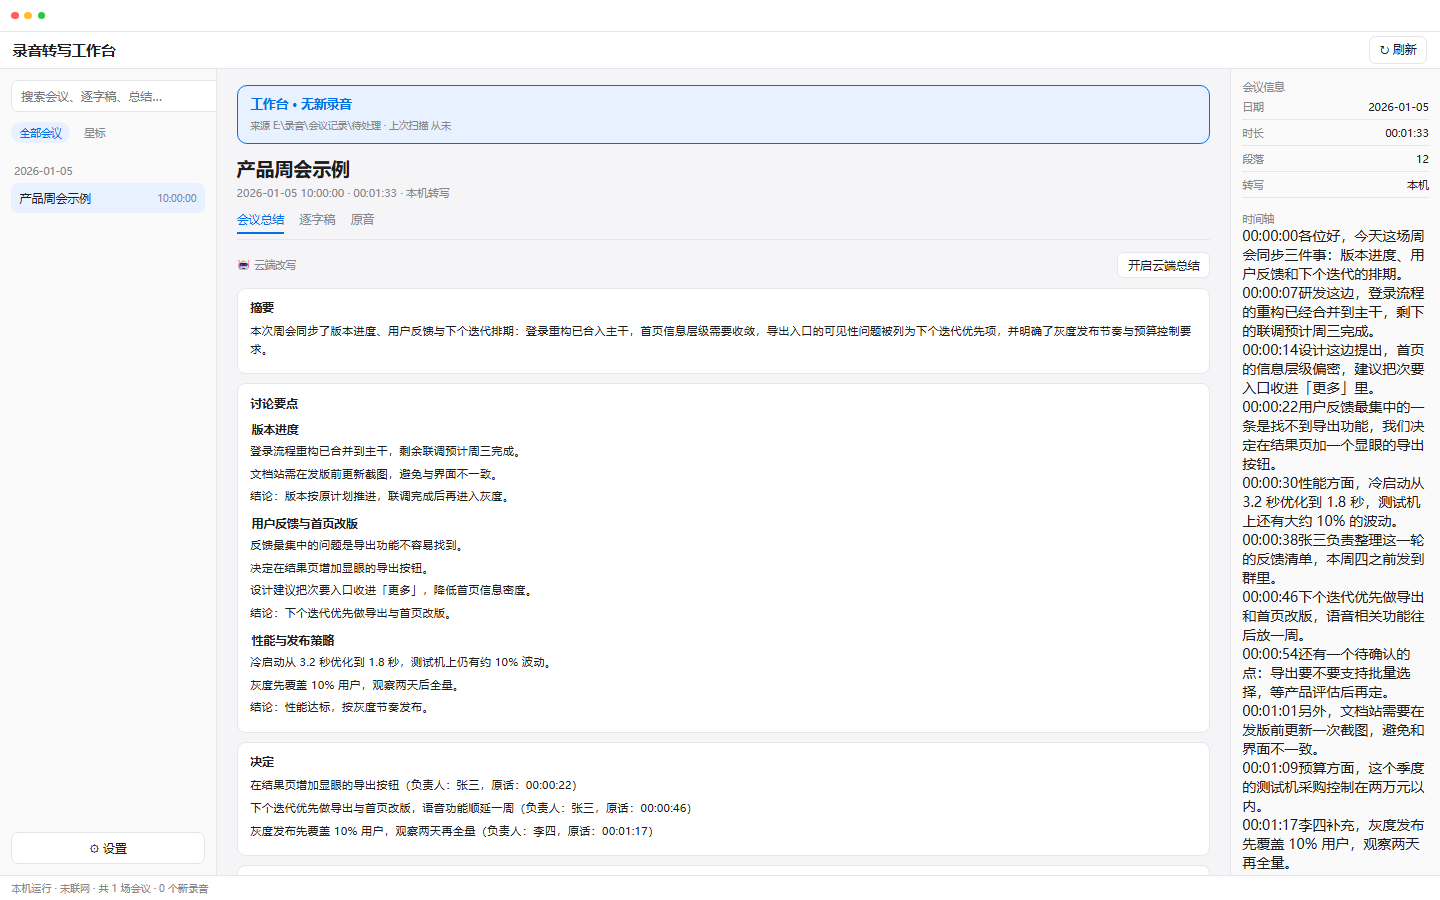
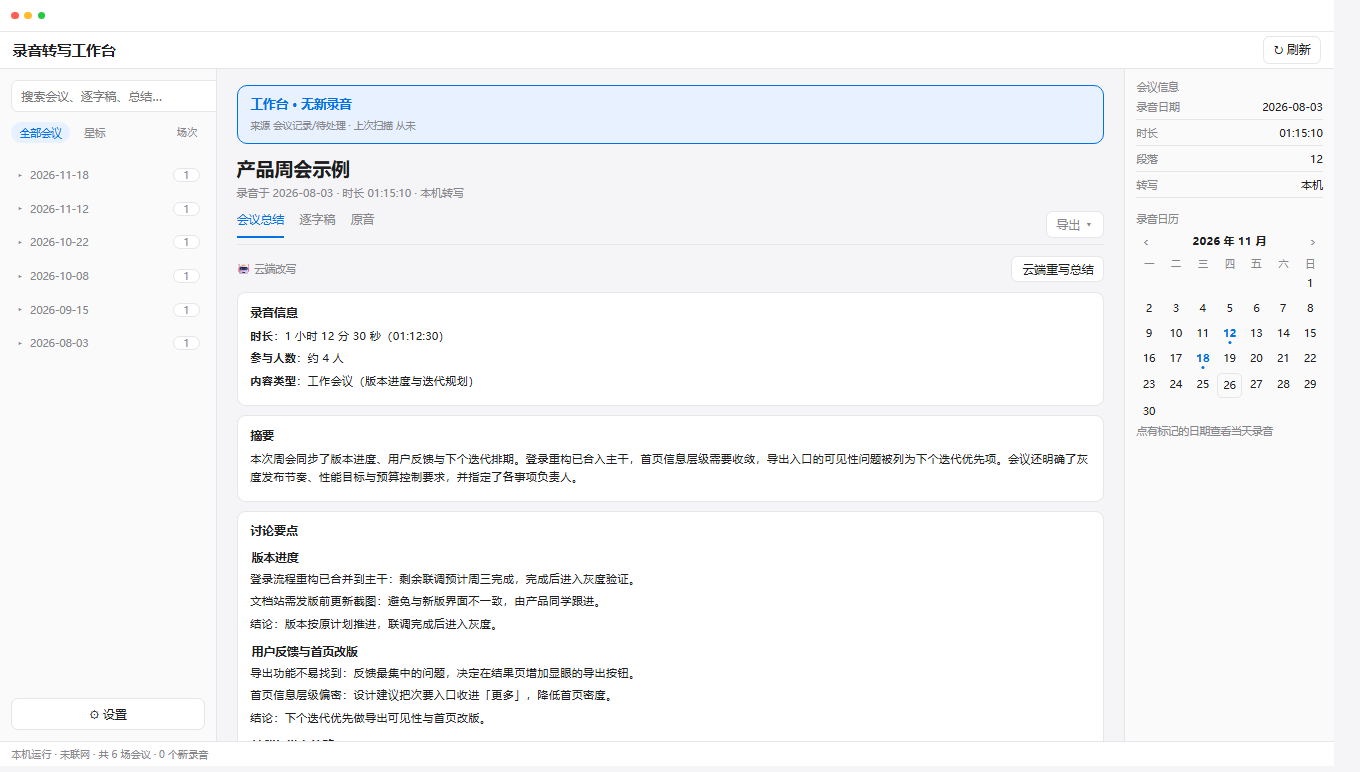
docs: 更新 README 截图为最新界面（虚构数据，无隐私）
- 截图展示 v5 界面：左栏场次表头+日期折叠、右栏录音日历、中栏总结
- 全部使用虚构示例数据（产品周会示例/张三/李四），无真实会议/人名/路径
- 顺带修复总结里 **加粗** 显示为字面星号的问题

diff --git a/scripts/build_app.py b/scripts/build_app.py
@@ -293,6 +293,10 @@ function parseSummary(md){
   out.lead=lead||'';
   return out;
 }
+function mdInline(text){
+  // 先转义再处理 **加粗**，避免 XSS；逐字稿时间戳另由 marked 处理
+  return esc(text).replace(/\*\*(.+?)\*\*/g,'<b>$1</b>');
+}
 function renderSummaryMd(m){
   const p=parseSummary(m.summary_content);
   if(!p.sections.length) return '<div class="st">本机总结文件为空，暂用逐字稿开头。</div>';
@@ -303,7 +307,8 @@ function renderSummaryMd(m){
       const text = b.t!==undefined ? b.t : b.p;
       const mm=text.match(/^\[(\d\d:\d\d:\d\d)\]\s*(.*)$/);
       if(mm) return `<div class="pt"><span class="ts">${mm[1]}</span>${marked(mm[2],terms)}</div>`;
-      return `<div class="pt${b.t!==undefined?'':' lead-pt'}">${marked(text,terms)}</div>`;
+      const body=text.includes('**')?mdInline(text):marked(text,terms);
+      return `<div class="pt${b.t!==undefined?'':' lead-pt'}">${body}</div>`;
     });
     const body = parts.length ? parts.join('') : '<div class="st">(无)</div>';
     return `<div class="card"><h5>${esc(title)}</h5>${body}</div>`;
